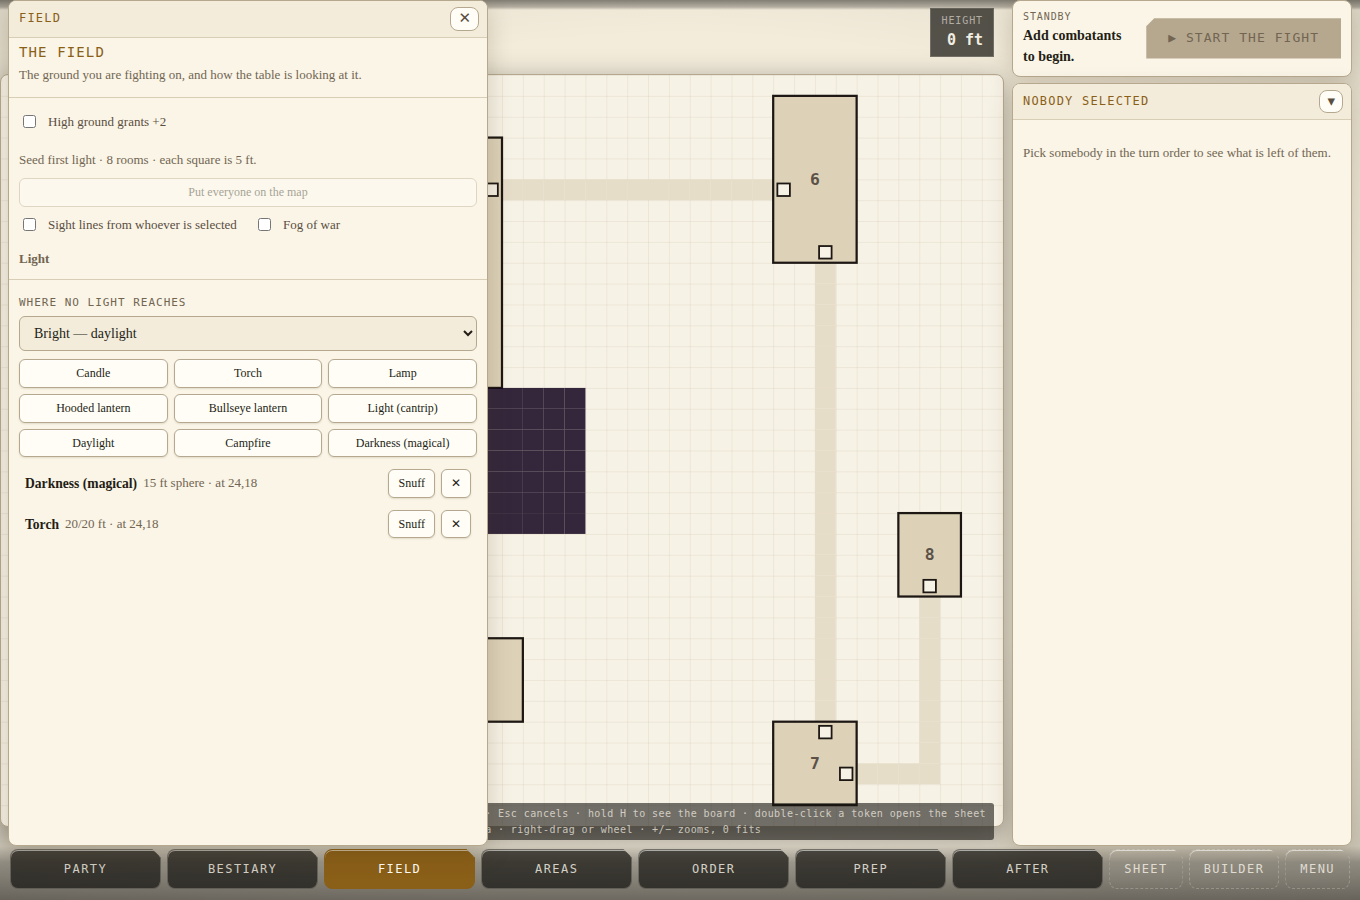
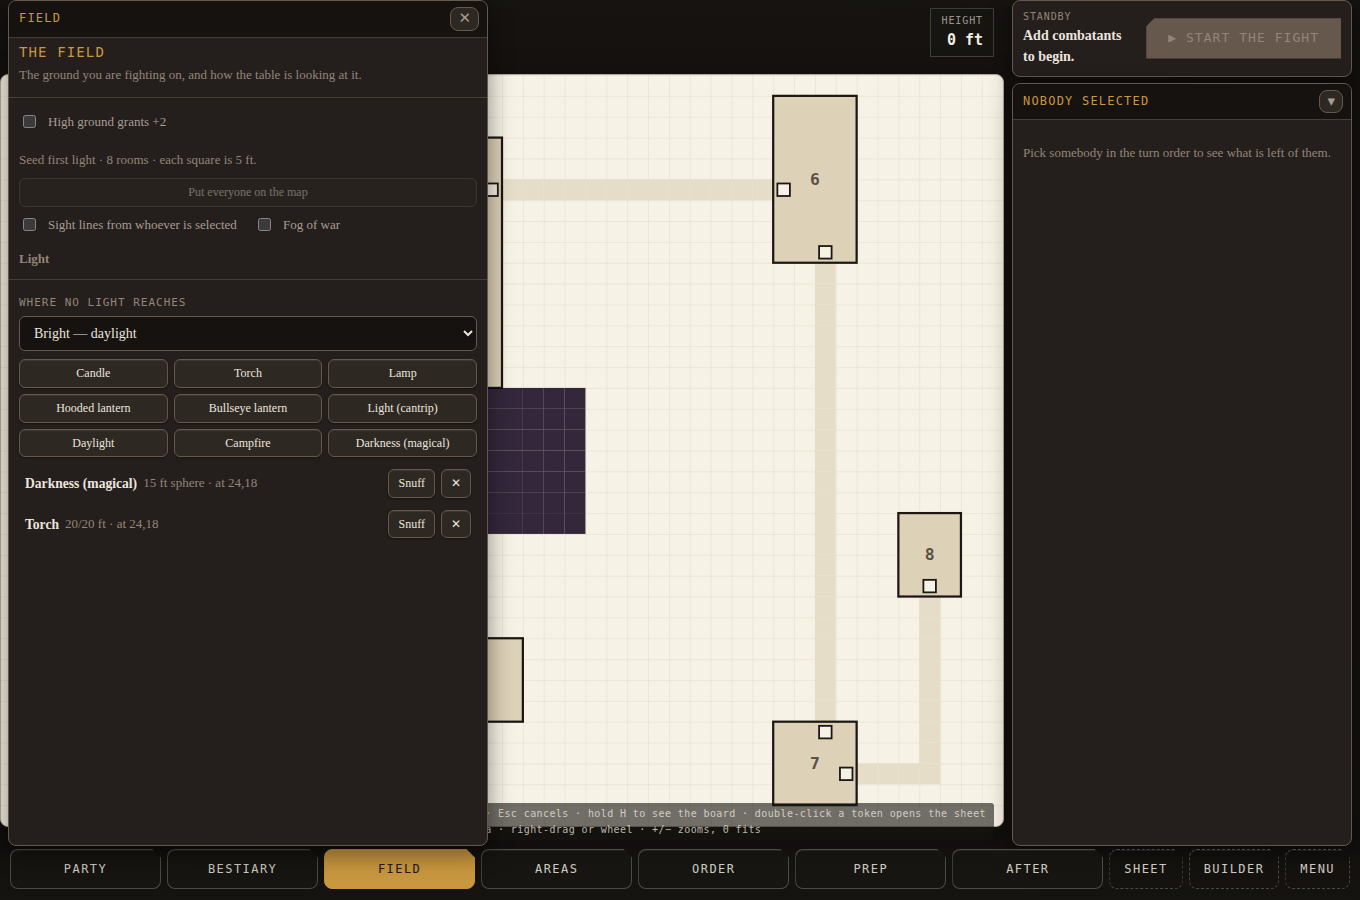
66.6: probe, docs, ship - the PS1 renderer is live
run66.mjs presses the renderer where real pixels come out, both themes at
1360. The environment fact settled first: headless chromium at the pinned
build gives WebGL2 through SwiftShader with no launch flags, so the GL leg
launches bare and the fallback leg has to disable WebGL explicitly - which
it does, proving the SVG answers with the Classic toggle honestly absent.
Pixels are read back from inside the page (getContext on the app's canvas
returns the same live context; preserveDrawingBuffer keeps the frame), so
"real content" is a luma variance and "the camera turned" is a changed
frame hash, no PNG decoder shipped.

The check that matters most: the Classic SVG says where a pawn is drawn
(data-at + bounding box), and a click at that same client point in the GL
view selects the same token - one projection module, one ViewBox, two
renderers, §32.1's invariant proven across them.

Found on the way: every probe's "dark" run has been light since the theme
key gained its version suffix - they wrote dnd-forge:theme, the app reads
dnd-forge:theme:v1, and nothing any probe asserted was theme-dependent
enough to notice until the GL palette came out identical in both
screenshots. All eight probes fixed; run63 and run65 re-run green.

ROADMAP gains section 5 (the look) with the shipped §66 and the open
WALL_STEPS hit-test item, now a one-module both-views fix. HISTORY carries
the full account: the ortho-camera-makes-affine-warp-moot note, the
[…]

diff --git a/docs/HISTORY.md b/docs/HISTORY.md
@@ -4780,3 +4780,96 @@ to end: both brushes live on the Dungeons tab and there is no path from a
 running fight to a painted pool. Rather than contrive one, those are pinned
 in `path.test.ts`, which runs the real Dijkstra over real water and real
 elevation and checks a swimmer crosses at five feet where a walker pays ten.
+
+## 66. The PS1 renderer: the Tactical view goes low-poly
+
+*"how crazy would it be to give this a ps1 era retro graphics … leaning
+toward the full low poly 3d"*
+
+The biggest single piece of UI work since the battle screen itself, and the
+answer to "how crazy" turned out to be: not very, if three facts are
+respected. The camera was already orthographic with four fixed facings -
+FFT's camera, and FFT is a PS1 game. The vendor chunk had ~20 kB of
+headroom, which ruled out three.js by arithmetic and forced the better
+design: a hand-rolled WebGL renderer, zero new dependencies, riding in the
+already-lazy TableTab chunk for ~23 kB. And jsdom has no WebGL, which turned
+the fallback into the test strategy.
+
+**One projection, three renderers.** 66.1 moved the tactical projection -
+constants, facing permutations, frame, face corners, the pointer inverse -
+out of `IsoMap.tsx` into `engine/iso.ts`, pinned by tests before any GL
+work started. The GL scene builders then *pre-project every vertex on the
+CPU through that module*: the shader never re-derives the projection, which
+is what makes the two views provably agree. The probe's best check presses
+exactly this: the Classic SVG says where a pawn is drawn on screen
+(`data-at` and a bounding box), and a click at that same client point in
+the GL view must select the same token. It does, in both themes.
+
+**Where each artifact lives, and the one that does not exist.** Vertex
+snapping - the wobble - is in the vertex shaders: positions are floored to
+the ~240-row virtual pixel grid, which is the artifact FFT actually had.
+Bayer dithering and the RGB555 crush happen once, in the blit shader, the
+way the console's video output stage did it; the 2×2 Bayer cell is
+arithmetic (ES 1.00 has no dynamic array indexing) and a TypeScript twin
+pins the recursion against the canonical 4×4 matrix. And **affine texture
+warp is deliberately absent**: it is a perspective artifact, this camera is
+orthographic, every w is 1 - there is nothing to emulate, and a test
+asserts nobody "adds it back". Terrain is untextured flat-Gouraud prisms
+with a deterministic per-cell jitter, which *is* the low-poly idiom rather
+than a cut corner; the atlas carries only pawn cards, glyphs, markers and
+outlined white text that tints color.
+
+**The fallback is the feature.** `GlIsoMap` answers `IsoMap`'s exact props
+(a shared type, so the contracts cannot drift) and owns which renderer
+draws: the user's **Classic look** toggle, an environment without WebGL, or
+a dead context all land on the SVG board - which is not a degraded mode but
+the shipping view, tooltips, per-token titles, printability and screen-
+reader access included. jsdom always takes that path, which is why the
+4,466-line TableTab suite passed untouched. The toggle persists
+(`dnd-forge:tactical-classic:v1`), sits beside Rotate, and is hidden where
+WebGL is absent because a toggle that cannot toggle is a lie.
+
+**Depth done properly, by accident of the port.** The SVG paints back to
+front and its own header admits a pawn can draw over the wall it stands
+behind. The GL prisms carry the SVG's sort key as a per-vertex depth
+attribute, so the depth buffer applies it per fragment - the painter's
+algorithm, done right, for free.
+
+**Found on the way: every probe's "dark" run was light.** The theme key is
+`dnd-forge:theme:v1`; the probes have written `dnd-forge:theme` since the
+key gained its version suffix, and the app ignored it. Nothing any probe
+asserted was theme-dependent enough to notice - until the GL palette, which
+genuinely diverges per theme, came out identical in both screenshots. All
+eight probes now write the right key, and §66's dark run is actually dark.
+
+**Recorded rather than fixed: the WALL_STEPS quirk.** A painted wall draws
+two steps higher than it hit-tests, because the pointer inverse iterates
+elevation values only. That predates §66; the extraction reproduced it
+byte-for-byte (66.1's promise was a move, not a rewrite), a test pins it by
+name, and the fix - now a both-views-at-once change in one module - is a
+ROADMAP item. One more inherited behavior got the same treatment: an
+interior pit's floor hit-tests as the flat square that visually covers it,
+which was first written as a test expecting the pit to win; the projection
+knew better, and the test now documents why the covering square is the
+right answer.
+
+**The environment fact the probe settled first**: headless chromium at the
+pinned build provides WebGL2 through SwiftShader with no launch flags at
+all, so the GL leg launches bare and the fallback leg has to *disable*
+WebGL (`--disable-webgl --disable-webgl2`) to prove the SVG answers - which
+it does, with the Classic toggle honestly absent.
+
+**Print and a11y, stated.** The tactical SVG printed before this;
+the canvas prints its last preserved frame (`preserveDrawingBuffer`), the
+Plan view stays the blessed print target, and Classic look is the vector
+escape hatch. The canvas carries `role="img"` and the same aria-label; the
+per-token titles exist only in the SVG, so Classic look is the accessible
+tactical mode - offered honestly rather than promised as parity.
+
+**Gates.** 2103 tests / 98 files, tsc, oxlint, build in budget with the new
+`TableTab: 320_000` alarm (154.8 kB actual - and the "no chunk emitted"
+check now also pins that TableTab *stays* lazy). `run66.mjs` green in both
+themes plus the no-WebGL leg; `run63.mjs` and `run65.mjs` re-run green.
+One self-caught bug worth its line: `onDead` was an inline closure and a
+mount-effect dependency, which would have torn the renderer down on every
+parent render - stabilised before it shipped.

diff --git a/ROADMAP.md b/ROADMAP.md
@@ -14,7 +14,7 @@ from the books" is an honest provenance and a weaker one than "verified against
 the SRD" — the audits exist because the difference turned out to matter
 fourteen times over. See **Provenance** below.
 
-The shipped history — fifty-two sections with their reasoning — lives in
+The shipped history — sixty-six sections with their reasoning — lives in
 **`docs/HISTORY.md`** so this file can be a plan.
 
 ---
@@ -251,6 +251,23 @@ both halves.
   list leaves - no feat improves healing, none helps an ally's saving throw,
   none gives you a second reaction, none rewards standing still. Sized against
   the published catalogue's own spread by `forge/feats.test.ts`.
+
+### 5. The look — `[x]` **§66 shipped the PS1 renderer**
+
+- `[x]` **The PS1 tactical renderer** (§66). The Tactical view draws through
+  a hand-rolled WebGL renderer - low-poly prisms, billboard-sprite pawns,
+  a ~240-row internal frame upscaled nearest-neighbour, vertex snapping,
+  Bayer dither and an RGB555 crush - with the SVG board kept as the
+  automatic fallback and the user-facing **Classic look** toggle. No new
+  dependencies; the whole renderer cost the lazy TableTab chunk ~23 kB.
+  Full account in `docs/HISTORY.md` §66.
+- `[ ]` **The tactical hit test and WALL_STEPS.** **S**. A painted wall
+  *draws* two steps higher than it *hit-tests* - the inverse iterates
+  elevation values only, so a click on a wall's cap can land on the square
+  visually behind it. Predates §66; now that the projection is one shared
+  module (`engine/iso.ts`), fixing it once fixes the SVG and GL views
+  together. The current behavior is pinned by name in `iso.test.ts`, so the
+  fix is a deliberate test change rather than a silent one.
 
 ### Parked
 
